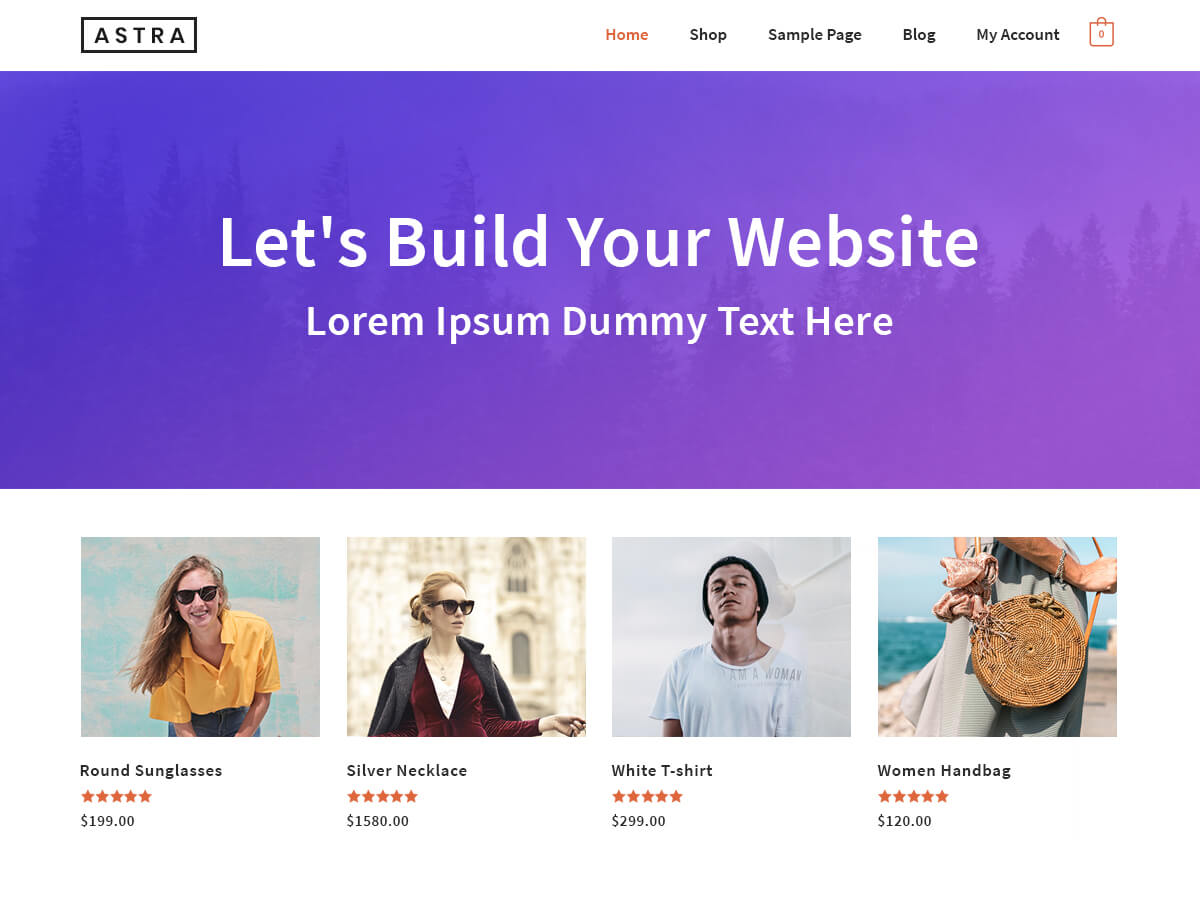
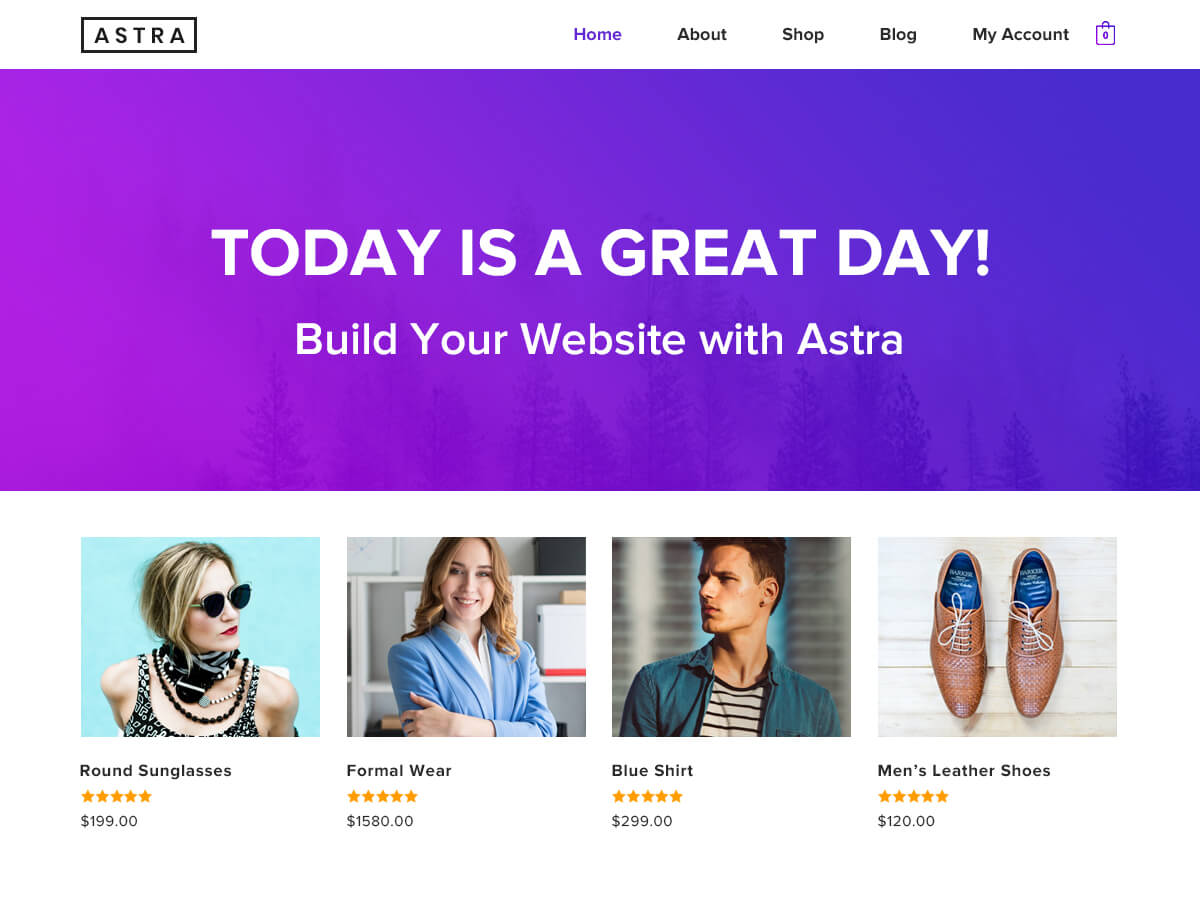
chore: updated v2.4.2.

diff --git a/style.css b/style.css
@@ -4,7 +4,7 @@ Theme URI: https://wpastra.com/
 Author: Brainstorm Force
 Author URI: https://wpastra.com/about/
 Description: Astra is fast, fully customizable & beautiful WordPress theme suitable for blog, personal portfolio, business website and WooCommerce storefront. It is very lightweight (less than 50KB on frontend) and offers unparalleled speed. Built with SEO in mind, Astra comes with Schema.org code integrated and is Native AMP ready so search engines will love your site. It offers special features and templates so it works perfectly with all page builders like Elementor, Beaver Builder, Visual Composer, SiteOrigin, Divi, etc. Some of the other features: # WooCommerce Ready # Responsive # RTL & Translation Ready # Extendible with premium addons # Regularly updated # Designed, Developed, Maintained & Supported by Brainstorm Force. Looking for a perfect base theme? Look no further. Astra is fast, fully customizable and WooCommerce ready theme that you can use for building any kind of website!
-Version: 2.4.1
+Version: 2.4.2
 License: GNU General Public License v2 or later
 License URI: https://www.gnu.org/licenses/gpl-2.0.html
 Text Domain: astra
@@ -33,7 +33,10 @@ Images that appear in the collage are licensed under CC0.
 Astra default breadcrumb is based on Breadcrumb Trail by Justin Tadlock. (https://github.com/justintadlock/breadcrumb-trail)
 Breadcrumb Trail is distributed under the terms of the GNU GPL v2 or later.
 
-https://undraw.co/illustrations
-https://fontawesome.com/icons
+Header background: https://pxhere.com/en/photo/100653
+Men's shoes: https://pxhere.com/en/photo/759723
+Sunglasses: https://pxhere.com/en/photo/1259448
+Formal wear: https://pxhere.com/en/photo/1456591
+Blue shirt: https://pxhere.com/en/photo/1389199
 
 /* Note: The CSS files are loaded from assets/css/ folder. */

diff --git a/functions.php b/functions.php
@@ -15,7 +15,7 @@ if ( ! defined( 'ABSPATH' ) ) {
 /**
  * Define Constants
  */
-define( 'ASTRA_THEME_VERSION', '2.4.1' );
+define( 'ASTRA_THEME_VERSION', '2.4.2' );
 define( 'ASTRA_THEME_SETTINGS', 'astra-settings' );
 define( 'ASTRA_THEME_DIR', trailingslashit( get_template_directory() ) );
 define( 'ASTRA_THEME_URI', trailingslashit( esc_url( get_template_directory_uri() ) ) );

diff --git a/README.md b/README.md
@@ -5,7 +5,7 @@
 **Tags:** custom-menu, custom-logo, entertainment, featured-images, full-width-template, one-column, two-columns, left-sidebar, e-commerce, right-sidebar, custom-colors, editor-style, featured-images, full-width-template, microformats, post-formats, rtl-language-support, theme-options, threaded-comments, translation-ready, blog  
 **Tested up to:** 5.4  
 **Requires PHP:** 5.3  
-**Stable tag:** 2.4.1  
+**Stable tag:** 2.4.2  
 
 Astra is fast, fully customizable & beautiful WordPress theme suitable for blog, personal portfolio, business website and WooCommerce storefront.
 
@@ -56,12 +56,12 @@ There are multiple ways you can use a child theme with the Astra Theme, Use any 
 
 ### Screenshot Licenses ###
 
-Screenshot images are all licensed under CC0 Universal ( https://www.pexels.com/creative-commons-images/ )
-https://www.pexels.com/photo/woman-wearing-grey-skirt-and-round-brown-rattan-crossbody-bag-on-wooden-dock-near-body-of-water-1102225/
-https://www.pexels.com/photo/man-standing-on-hill-2146756/
-https://www.pexels.com/photo/woman-carrying-tote-bags-975250/
-https://www.pexels.com/photo/woman-wearing-yellow-polo-shirt-standing-in-front-of-teal-concrete-wall-720606/
-https://www.pexels.com/photo/photo-of-pine-trees-2929246/
+Screenshot images are all licensed under Creative Commons Zero (CC0) ( https://pxhere.com/en/license )
+https://pxhere.com/en/photo/100653
+https://pxhere.com/en/photo/759723
+https://pxhere.com/en/photo/1259448
+https://pxhere.com/en/photo/1456591
+https://pxhere.com/en/photo/1389199
 
 
 ### Normalizing styles ###
